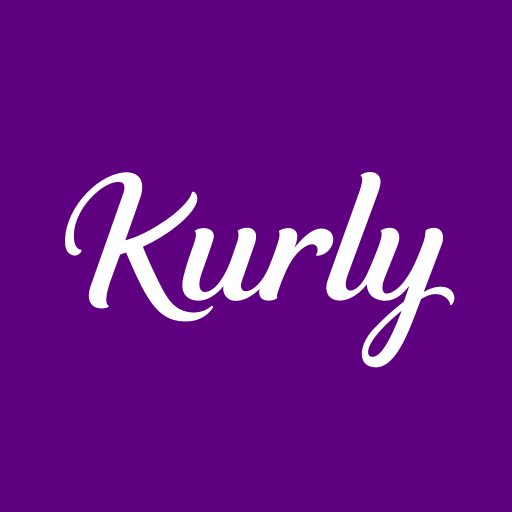
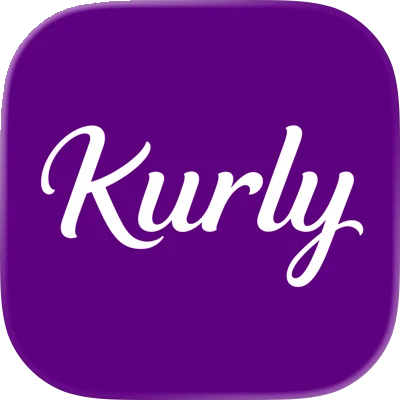
Use transparent marketplace artwork (#11)

Changed region(s): [[0.0, 0.0, 1.0, 1.0], [0.09, 0.3, 0.57, 0.63], [0.54, 0.3, 0.93, 0.72]]

diff --git a/app/marketplaces/page.tsx b/app/marketplaces/page.tsx
@@ -68,7 +68,7 @@ export default function MarketplacesPage() {
                   <p>{marketplace.description}</p>
                 </div>
                 <div
-                  className={`service-visual service-brand-visual brand-visual-${marketplace.imageTone}`}
+                  className={`service-visual service-brand-visual brand-visual-${marketplace.imageTone} brand-visual-plain`}
                   aria-hidden="true"
                   style={{ backgroundImage: `url(${assetHref(marketplace.image)})` }}
                 />
